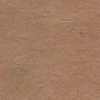
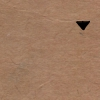
0406

Changed region(s): [[0.75, 0.21, 0.9, 0.33]]

diff --git a/css/style.css b/css/style.css
@@ -98,6 +98,7 @@ select {
   -moz-appearance: none;
   appearance: none;
   background-image: url('../images/nameField.JPG');
+
 }
 
 select:focus {
@@ -118,7 +119,9 @@ select::-webkit-scrollbar {
 option {
   padding-top: 5px;
   font-family: "writesAnnie";
-  background-image: url('../images/nameField.JPG');
+  background-image: url('../images/nameFieldOpt.JPG');
+  background-repeat: no-repeat;
+
 }
 
 /*資訊內容*/
